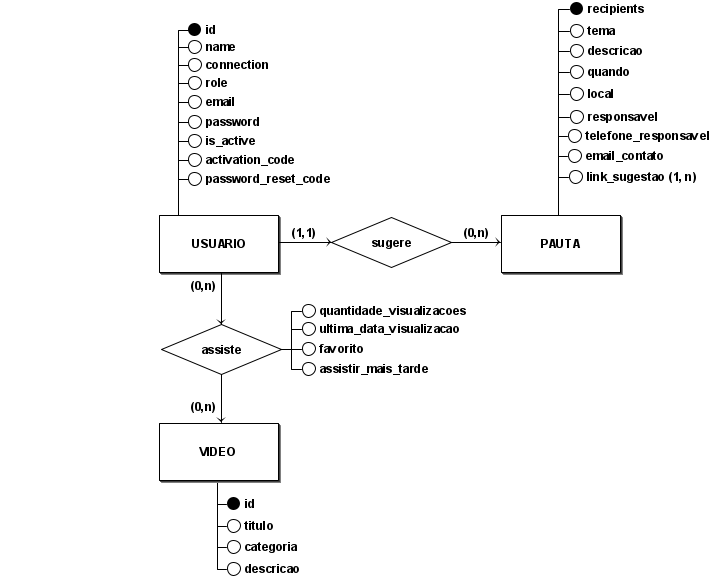
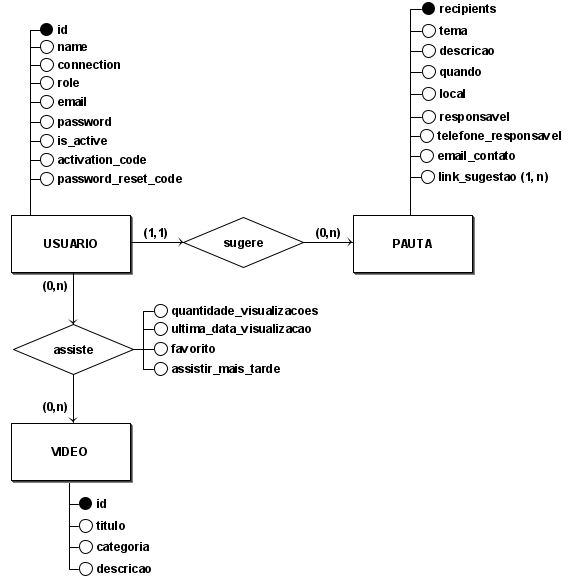
Corrigindo imagem DER

diff --git a/docs/codigo/arquitetura.md b/docs/codigo/arquitetura.md
@@ -94,4 +94,5 @@ Geekhunter. O que são microsserviços e como funcionam?. Disponível em: https:
 | **Data**   | **Descrição**                                    | **Autore(es)**    |
 | ---------- | ------------------------------------------------ | ----------------- |
 | 15/07/2024 | Adição inicial do documento                              | [Vinícius Assumpção de araújo](https://github.com/viniman27)          |
-| 16/07/2023 | Adição do diagrama de arquitetura e implantação | [Victor Hugo Oliveira Leão](https://github.com/victorleaoo) |
+| 16/07/2024 | Adição do diagrama de arquitetura e implantação | [Victor Hugo Oliveira Leão](https://github.com/victorleaoo) |
+| 16/07/2024 | Adição do DER e do DLD | [Gabriel Roger Amorim da Cruz](https://github.com/GabrielRoger07) |
